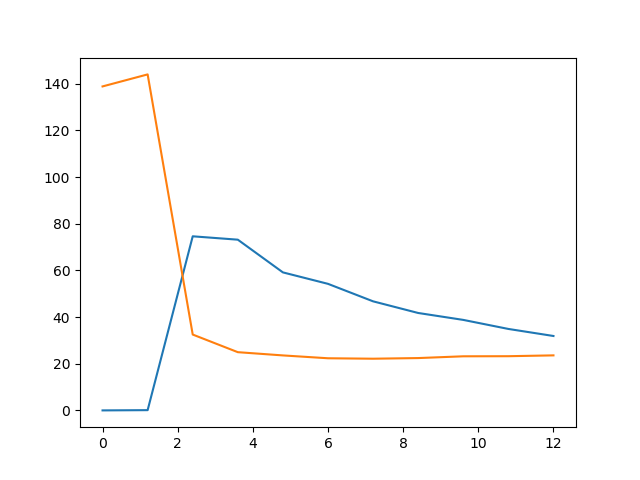
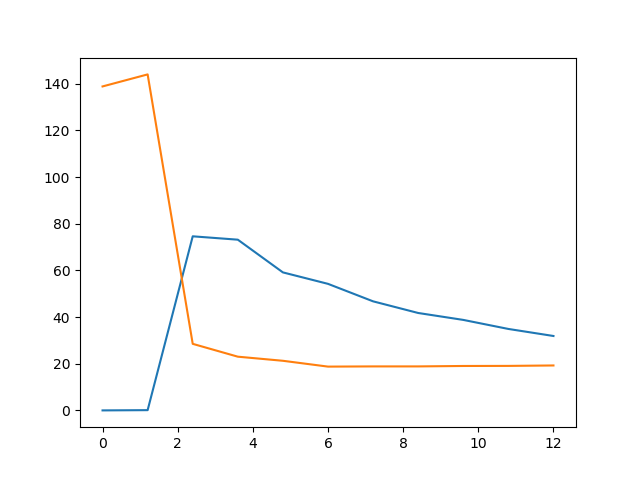
practica 5 casi terminada

Changed region(s): [[0.2812, 0.5625, 0.875, 0.7812], [0.25, 0.3125, 0.2812, 0.5625], [0.2188, 0.25, 0.25, 0.2812]]

diff --git a/Pr5/Pr5.py b/Pr5/Pr5.py
@@ -33,12 +33,22 @@ def learningCurve(errorX, errorXVal):
     """muestra el grafico de la funcion h(x)"""
 
     x = np.linspace(0, 12, errorX.shape[0], endpoint=True)
-    xVal = np.linspace(0, 12, errorX.shape[0], endpoint=True)
+    xVal = np.linspace(0, 12, errorXVal.shape[0], endpoint=True)
 
     # pintamos funcion de estimacion
     plt.plot(x, errorX)
     plt.plot(xVal, errorXVal)
-    plt.savefig('LearningCurvePolyLambda0.png')
+    plt.savefig('LearningCurvePolyLambda100.png')
+    plt.show()
+
+def lambdaGraphic(errorX, errorXVal, lambdas):
+    x = np.linspace(0, lambdas.shape[0], errorX.shape[0], endpoint=True)
+    xVal = np.linspace(0, lambdas.shape[0], errorXVal.shape[0], endpoint=True)
+
+    # pintamos funcion de estimacion
+    plt.plot(x, errorX)
+    plt.plot(xVal, errorXVal)
+    plt.savefig('LambdaErrors.png')
     plt.show()
 
 def costeLineal(X, Y, O, reg):
@@ -93,40 +103,59 @@ def main():
     
     #X = np.hstack([np.ones([X.shape[0], 1]), X])
     #Xval = np.hstack([np.ones([Xval.shape[0], 1]), Xval])
-    Xtest = np.hstack([np.ones([Xtest.shape[0], 1]), Xtest])
+    #Xtest = np.hstack([np.ones([Xtest.shape[0], 1]), Xtest])
 
     Xpoly = polynomize(X, 8)
     Xnorm, mu, sigma = normalize(Xpoly[:, 1:])
     Xnorm = np.hstack([np.ones([Xnorm.shape[0], 1]), Xnorm])
 
     XpolyVal = polynomize(Xval, 8)
-    XnormVal, muVal, sigmaVal = normalize(XpolyVal[:, 1:])
+    XnormVal = normalizeValues(XpolyVal[:, 1:], mu, sigma)
     XnormVal = np.hstack([np.ones([XnormVal.shape[0], 1]), XnormVal])
+
+    XpolyTest = polynomize(Xtest, 8)
+    XnormTest = normalizeValues(XpolyTest[:, 1:], mu, sigma)
+    XnormTest = np.hstack([np.ones([XnormTest.shape[0], 1]), XnormTest])
 
     m = Xnorm.shape[0]      # numero de muestras de entrenamiento
     n = Xnorm.shape[1]      # numero de variables x que influyen en el resultado y, mas la columna de 1s
-    l = 0
+
+    l = np.array([0, 0.001, 0.003, 0.01, 0.03, 0.1, 0.3, 1, 3, 10])
 
     thetaVec = np.zeros([n])
 
-    errorX = np.zeros(m - 1)
-    errorXVal = np.zeros(m - 1)
+    errorX = np.zeros(l.shape[0])
+    errorXVal = np.zeros(l.shape[0])
+
+    for i in range(l.shape[0]):
+        result = opt.minimize(fun = minimizeFunc, x0 = thetaVec,
+         args = (Xnorm, Y, l[i]), method = 'TNC', jac = True, options = {'maxiter':70})
+        O = result.x
+
+        errorX[i] = costeLineal(Xnorm, Y, O, l[i])
+        errorXVal[i] = costeLineal(XnormVal, Yval, O, l[i])
+
+    lambdaGraphic(errorX, errorXVal, l)
 
     result = opt.minimize(fun = minimizeFunc, x0 = thetaVec,
-         args = (Xnorm, Y, l), method = 'TNC', jac = True, options = {'maxiter':70})
+        args = (Xnorm, Y, 3), method = 'TNC', jac = True, options = {'maxiter':70})
 
     O = result.x
 
-    functionGraphic(X, Y, O, mu, sigma)
+    print(costeLineal(XnormTest, Ytest, O, 3))
+    #functionGraphic(X, Y, O, mu, sigma)
+
+    """errorX = np.zeros(m - 1)
+    errorXVal = np.zeros(m - 1)
 
     for i in range(1, m):
         result = opt.minimize(fun = minimizeFunc, x0 = thetaVec,
-         args = (Xnorm[0:i], Y[0:i], l), method = 'TNC', jac = True, options = {'maxiter':70})
+         args = (Xnorm[0:i], Y[0:i], 100), method = 'TNC', jac = True, options = {'maxiter':70})
         O = result.x
 
-        errorX[i-1] = costeLineal(Xnorm[0:i], Y[0:i], O, l)
-        errorXVal[i-1] = costeLineal(XnormVal, Yval, O, l)
+        errorX[i-1] = costeLineal(Xnorm[0:i], Y[0:i], O, 100)
+        errorXVal[i-1] = costeLineal(XnormVal, Yval, O, 100)
 
-    learningCurve(errorX, errorXVal)
+    learningCurve(errorX, errorXVal)"""
 
 main()
